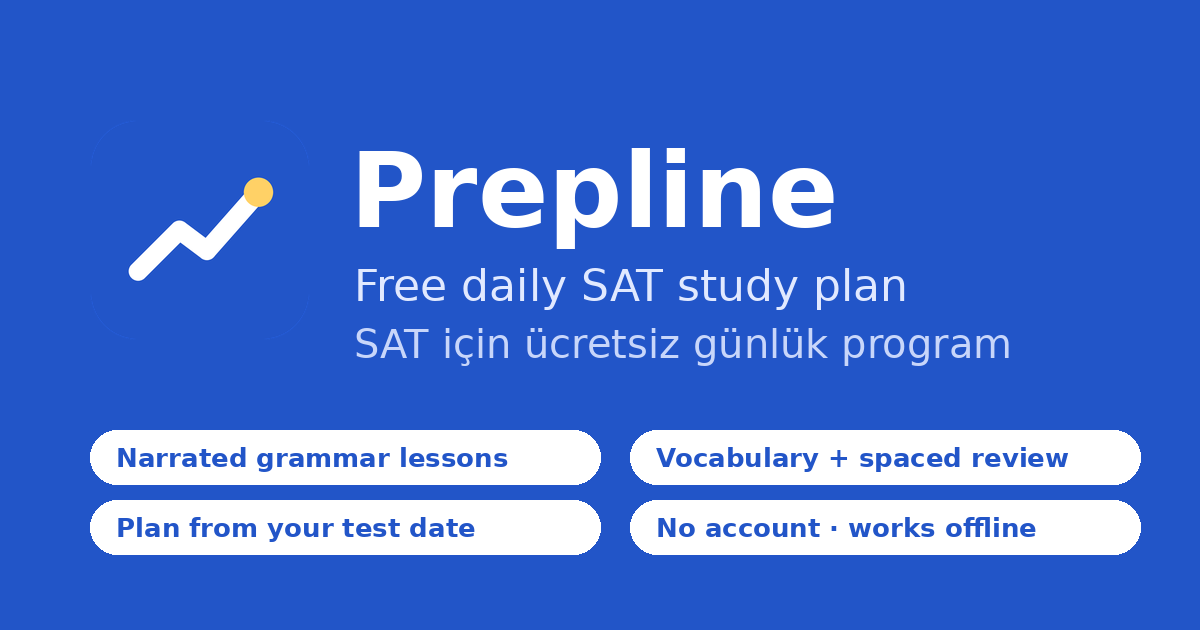
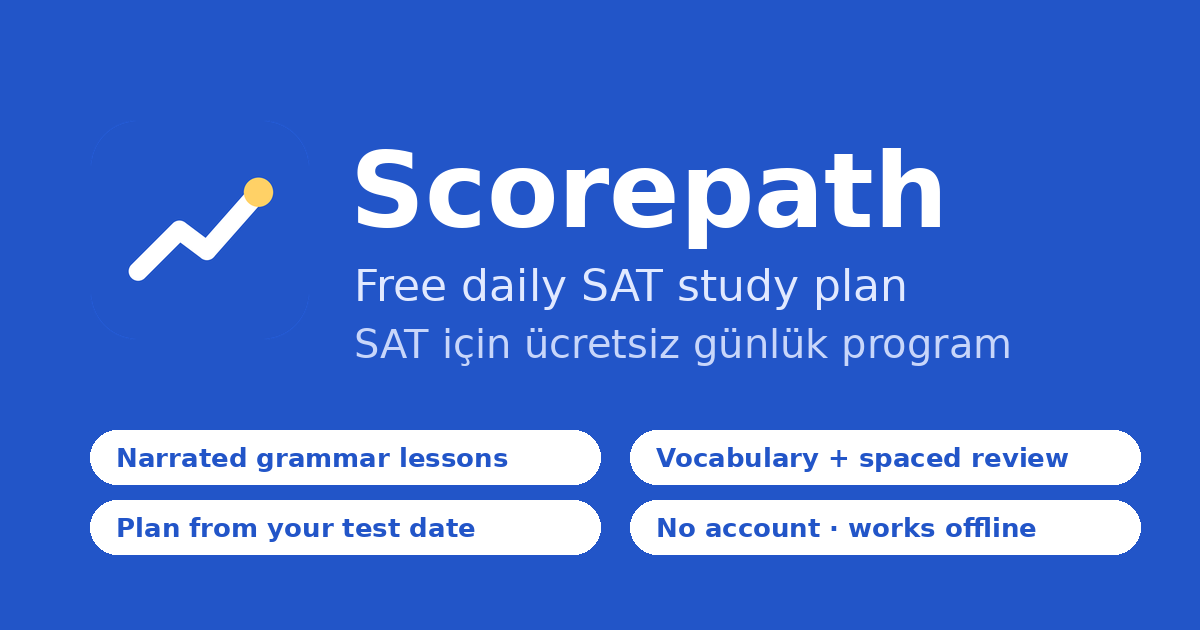
Rename to Scorepath, feedback by email (v1.2.0)
- App name, title, manifest, share image, privacy page and README now say Scorepath
- Feedback link opens an email to velikaankayhan@proton.me
- Keep the old IndexedDB name so existing data is not lost

Claude-Session: https://claude.ai/code/session_01Gp5cgeSc6NUcfHLgBtnFHA

Changed region(s): [[0.2775, 0.2111, 0.8017, 0.3921]]

diff --git a/public/privacy.html b/public/privacy.html
@@ -1,6 +1,6 @@
 <!doctype html>
 <html lang="en"><head><meta charset="utf-8"><meta name="viewport" content="width=device-width,initial-scale=1">
-<title>Prepline — Privacy</title>
+<title>Scorepath — Privacy</title>
 <style>
 :root{--bg:#f5f6f8;--fg:#141821;--dim:#666e7d;--acc:#2255c8}
 @media (prefers-color-scheme:dark){:root{--bg:#0b0e14;--fg:#e8ecf3;--dim:#8c95a6;--acc:#4a86ff}}
@@ -8,7 +8,7 @@ body{background:var(--bg);color:var(--fg);font:16px/1.6 -apple-system,BlinkMacSy
 main{max-width:680px;margin:0 auto}h1{font-size:24px}h2{font-size:18px;margin-top:28px}p,li{color:var(--fg)}small{color:var(--dim)}a{color:var(--acc)}
 </style></head><body><main>
 <h1>Privacy</h1>
-<p>Prepline does not have accounts and does not collect personal data.</p>
+<p>Scorepath does not have accounts and does not collect personal data.</p>
 <ul>
 <li>Everything you enter (words, mistakes, scores, settings) is stored only in your browser on your device (IndexedDB). It is never sent to us.</li>
 <li>Clearing your browser data deletes it. Use “Download backup” in Settings to keep a copy.</li>
@@ -16,9 +16,10 @@ main{max-width:680px;margin:0 auto}h1{font-size:24px}h2{font-size:18px;margin-to
 <li>We count page visits with Cloudflare Web Analytics, which uses no cookies and does not identify you.</li>
 <li>Voice narration uses your device's built-in text-to-speech.</li>
 </ul>
-<p><small>Prepline is not affiliated with College Board. SAT is a trademark registered by College Board.</small></p>
+<p>Questions: <a href="mailto:velikaankayhan@proton.me">velikaankayhan@proton.me</a></p>
+<p><small>Scorepath is not affiliated with College Board. SAT is a trademark registered by College Board.</small></p>
 <h2>Gizlilik</h2>
-<p>Prepline'da hesap yoktur ve kişisel veri toplanmaz.</p>
+<p>Scorepath'da hesap yoktur ve kişisel veri toplanmaz.</p>
 <ul>
 <li>Girdiğin her şey (kelimeler, yanlışlar, puanlar, ayarlar) sadece kendi cihazında, tarayıcında saklanır (IndexedDB). Bize hiçbir şey gönderilmez.</li>
 <li>Tarayıcı verilerini silersen bu veriler de silinir. Kopyası için Ayarlar'daki “Yedek al” düğmesini kullan.</li>
@@ -26,6 +27,7 @@ main{max-width:680px;margin:0 auto}h1{font-size:24px}h2{font-size:18px;margin-to
 <li>Ziyaret sayısını Cloudflare Web Analytics ile sayıyoruz; çerez kullanmaz ve seni tanımlamaz.</li>
 <li>Sesli anlatım cihazının kendi metin okuma özelliğini kullanır.</li>
 </ul>
-<p><small>Prepline, College Board ile bağlantılı değildir. SAT, College Board'un tescilli markasıdır.</small></p>
-<p><a href="./">← Prepline</a></p>
+<p>Sorular için: <a href="mailto:velikaankayhan@proton.me">velikaankayhan@proton.me</a></p>
+<p><small>Scorepath, College Board ile bağlantılı değildir. SAT, College Board'un tescilli markasıdır.</small></p>
+<p><a href="./">← Scorepath</a></p>
 </main></body></html>

diff --git a/public/index.html b/public/index.html
@@ -3,7 +3,7 @@
 <head>
 <meta charset="utf-8">
 <meta name="viewport" content="width=device-width,initial-scale=1,viewport-fit=cover">
-<title>Prepline</title>
+<title>Scorepath</title>
 <meta name="description" content="A free daily SAT study plan: vocabulary, grammar lessons with narration, question log and progress tracking. Türkçe ve English.">
 <meta name="theme-color" content="#2255c8">
 <link rel="manifest" href="manifest.json">
@@ -12,7 +12,7 @@
 <meta name="apple-mobile-web-app-capable" content="yes">
 <meta name="apple-mobile-web-app-status-bar-style" content="default">
 <meta property="og:type" content="website">
-<meta property="og:title" content="Prepline — free SAT study plan">
+<meta property="og:title" content="Scorepath — free SAT study plan">
 <meta property="og:description" content="Daily plan, narrated grammar lessons, vocabulary and progress tracking. Free, no account. Türkçe / English.">
 <meta property="og:url" content="https://prepline.velikaankayhan.workers.dev/">
 <meta property="og:image" content="https://prepline.velikaankayhan.workers.dev/og.png">
@@ -831,10 +831,10 @@ var CURR=[
 
 "use strict";
 /* ---------- yapılandırma / config ---------- */
-var APP_NAME="Prepline";          /* geçici isim / working name — change in one place */
-var APP_VER="1.1.0";
+var APP_NAME="Scorepath";
+var APP_VER="1.2.0";
 var SRC_URL="https://github.com/velikaankayhan-stack/prepline";
-var FEEDBACK_URL="https://github.com/velikaankayhan-stack/prepline/issues/new";   /* değiştirilebilir: e-posta için "mailto:..." */                    /* GitHub repo URL, fill after publishing */
+var FEEDBACK_URL="mailto:velikaankayhan@proton.me?subject=Scorepath%20feedback";                    /* GitHub repo URL, fill after publishing */
 var QB_URL="https://satsuitequestionbank.collegeboard.org/";
 var BB_URL="https://bluebook.collegeboard.org/";
 var SNE_URL="https://www.snexplores.org/";
@@ -882,7 +882,7 @@ var autoId={words:1,errors:1,tests:1};
 function openDB(){
   return new Promise(function(res){
     var r;
-    try{ r=indexedDB.open("prepline",1); }catch(e){ MEM=true; return res(); }
+    try{ r=indexedDB.open("prepline",1)   /* eski ad korunur: mevcut kullanıcıların verisi kaybolmasın */; }catch(e){ MEM=true; return res(); }
     r.onupgradeneeded=function(e){
       var d=e.target.result;
       ["words","errors","tests"].forEach(function(s){ if(!d.objectStoreNames.contains(s)) d.createObjectStore(s,{keyPath:"id",autoIncrement:true}); });

diff --git a/src/app1.js b/src/app1.js
@@ -1,9 +1,9 @@
 "use strict";
 /* ---------- yapılandırma / config ---------- */
-var APP_NAME="Prepline";          /* geçici isim / working name — change in one place */
-var APP_VER="1.1.0";
+var APP_NAME="Scorepath";
+var APP_VER="1.2.0";
 var SRC_URL="https://github.com/velikaankayhan-stack/prepline";
-var FEEDBACK_URL="https://github.com/velikaankayhan-stack/prepline/issues/new";   /* değiştirilebilir: e-posta için "mailto:..." */                    /* GitHub repo URL, fill after publishing */
+var FEEDBACK_URL="mailto:velikaankayhan@proton.me?subject=Scorepath%20feedback";                    /* GitHub repo URL, fill after publishing */
 var QB_URL="https://satsuitequestionbank.collegeboard.org/";
 var BB_URL="https://bluebook.collegeboard.org/";
 var SNE_URL="https://www.snexplores.org/";
@@ -51,7 +51,7 @@ var autoId={words:1,errors:1,tests:1};
 function openDB(){
   return new Promise(function(res){
     var r;
-    try{ r=indexedDB.open("prepline",1); }catch(e){ MEM=true; return res(); }
+    try{ r=indexedDB.open("prepline",1)   /* eski ad korunur: mevcut kullanıcıların verisi kaybolmasın */; }catch(e){ MEM=true; return res(); }
     r.onupgradeneeded=function(e){
       var d=e.target.result;
       ["words","errors","tests"].forEach(function(s){ if(!d.objectStoreNames.contains(s)) d.createObjectStore(s,{keyPath:"id",autoIncrement:true}); });

diff --git a/public/sw.js b/public/sw.js
@@ -1,5 +1,5 @@
 /* Offline support: serve from cache, refresh in the background. Bump VERSION on every release. */
-var VERSION="prepline-1.1.0";
+var VERSION="scorepath-1.2.0";
 var CORE=["./","index.html","manifest.json","privacy.html","og.png","icons/icon.svg","icons/icon-192.png","icons/icon-512.png","icons/maskable-512.png"];
 self.addEventListener("install",function(e){
   e.waitUntil(caches.open(VERSION).then(function(c){ return c.addAll(CORE); }).then(function(){ return self.skipWaiting(); }));

diff --git a/build.py b/build.py
@@ -8,7 +8,7 @@ html='''<!doctype html>
 <head>
 <meta charset="utf-8">
 <meta name="viewport" content="width=device-width,initial-scale=1,viewport-fit=cover">
-<title>Prepline</title>
+<title>Scorepath</title>
 <meta name="description" content="A free daily SAT study plan: vocabulary, grammar lessons with narration, question log and progress tracking. Türkçe ve English.">
 <meta name="theme-color" content="#2255c8">
 <link rel="manifest" href="manifest.json">
@@ -17,7 +17,7 @@ html='''<!doctype html>
 <meta name="apple-mobile-web-app-capable" content="yes">
 <meta name="apple-mobile-web-app-status-bar-style" content="default">
 <meta property="og:type" content="website">
-<meta property="og:title" content="Prepline — free SAT study plan">
+<meta property="og:title" content="Scorepath — free SAT study plan">
 <meta property="og:description" content="Daily plan, narrated grammar lessons, vocabulary and progress tracking. Free, no account. Türkçe / English.">
 <meta property="og:url" content="'''+SITE_URL+'''">
 <meta property="og:image" content="'''+SITE_URL+'''og.png">

diff --git a/README.md b/README.md
@@ -1,8 +1,8 @@
-# Prepline
+# Scorepath
 
 **A free, open-source daily study plan for the SAT.** Works offline, installs on your phone, and keeps all data on your own device. Available in English and Turkish.
 
-> Prepline is not affiliated with College Board. SAT is a trademark registered by College Board.
+> Scorepath is not affiliated with College Board. SAT is a trademark registered by College Board.
 
 ## Features
 
@@ -45,7 +45,7 @@ src/app1-5.js   app logic
 
 Edit files in `src/`, then run `python3 build.py` (it writes `public/index.html`). For each release, bump `APP_VER` in `src/app1.js` and `VERSION` in `public/sw.js` so phones pick up the update.
 
-**Rename the app:** change `APP_NAME` in `src/app1.js`, the `<title>` in `build.py`, `public/manifest.json`, `public/privacy.html`, and `VERSION` in `public/sw.js`.
+**Rename the app:** change `APP_NAME` in `src/app1.js`, the `<title>` and Open Graph tags in `build.py`, `public/og.png`, `public/manifest.json`, `public/privacy.html`, and `VERSION` in `public/sw.js`.
 
 **Add a language:** copy the `en` block in `src/i18n.js`, translate it, and add the language to the `{tr, en}` objects in `src/content.js`. Have a native speaker check it.
 
@@ -55,7 +55,7 @@ No accounts, no cookies, no personal data. Everything is stored in the browser (
 
 ## Credits
 
-Built by Veli Kaan Kayhan. Grammar questions and lessons are original. Practice questions themselves come from College Board's free [Question Bank](https://satsuitequestionbank.collegeboard.org/) and [Bluebook](https://bluebook.collegeboard.org/); this app only links to them.
+Built by Veli Kaan Kayhan. Feedback: velikaankayhan@proton.me. Grammar questions and lessons are original. Practice questions themselves come from College Board's free [Question Bank](https://satsuitequestionbank.collegeboard.org/) and [Bluebook](https://bluebook.collegeboard.org/); this app only links to them.
 
 ## License
 
